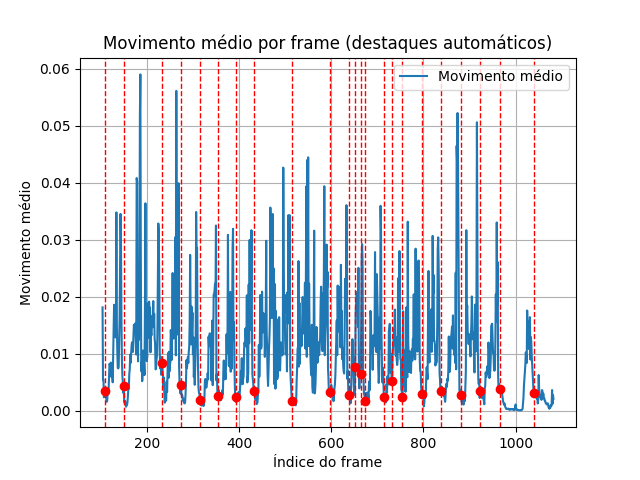
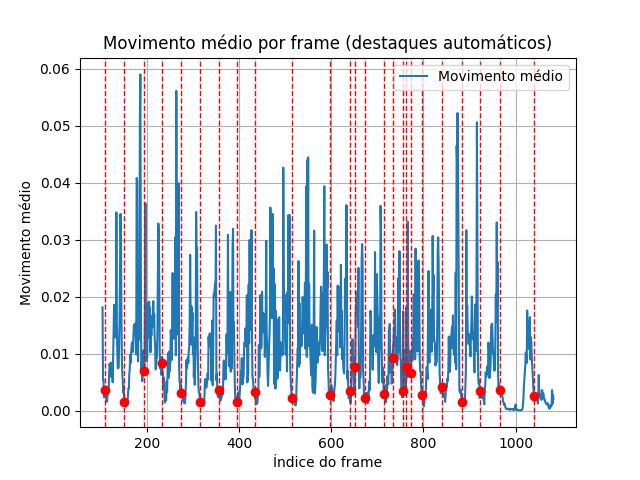
Imagens base do Modelo

diff --git a/Scripts/SegmentaPrints.py b/Scripts/SegmentaPrints.py
@@ -13,8 +13,8 @@ pose = mp_pose.Pose(static_image_mode=False,
                     min_tracking_confidence=0.5)
 
 # Parâmetros de detecção de imobilidade
-detection_frames = 5      # número de frames em sequência para considerar imóvel
-movement_threshold = 0.01  # limiar de movimento das landmarks
+detection_frames = 6      # número de frames em sequência para considerar imóvel
+movement_threshold = 0.011  # limiar de movimento das landmarks
 
 # Função para calcular movimento entre dois conjuntos de landmarks
 def pose_movement(landmarks_prev, landmarks_cur):
